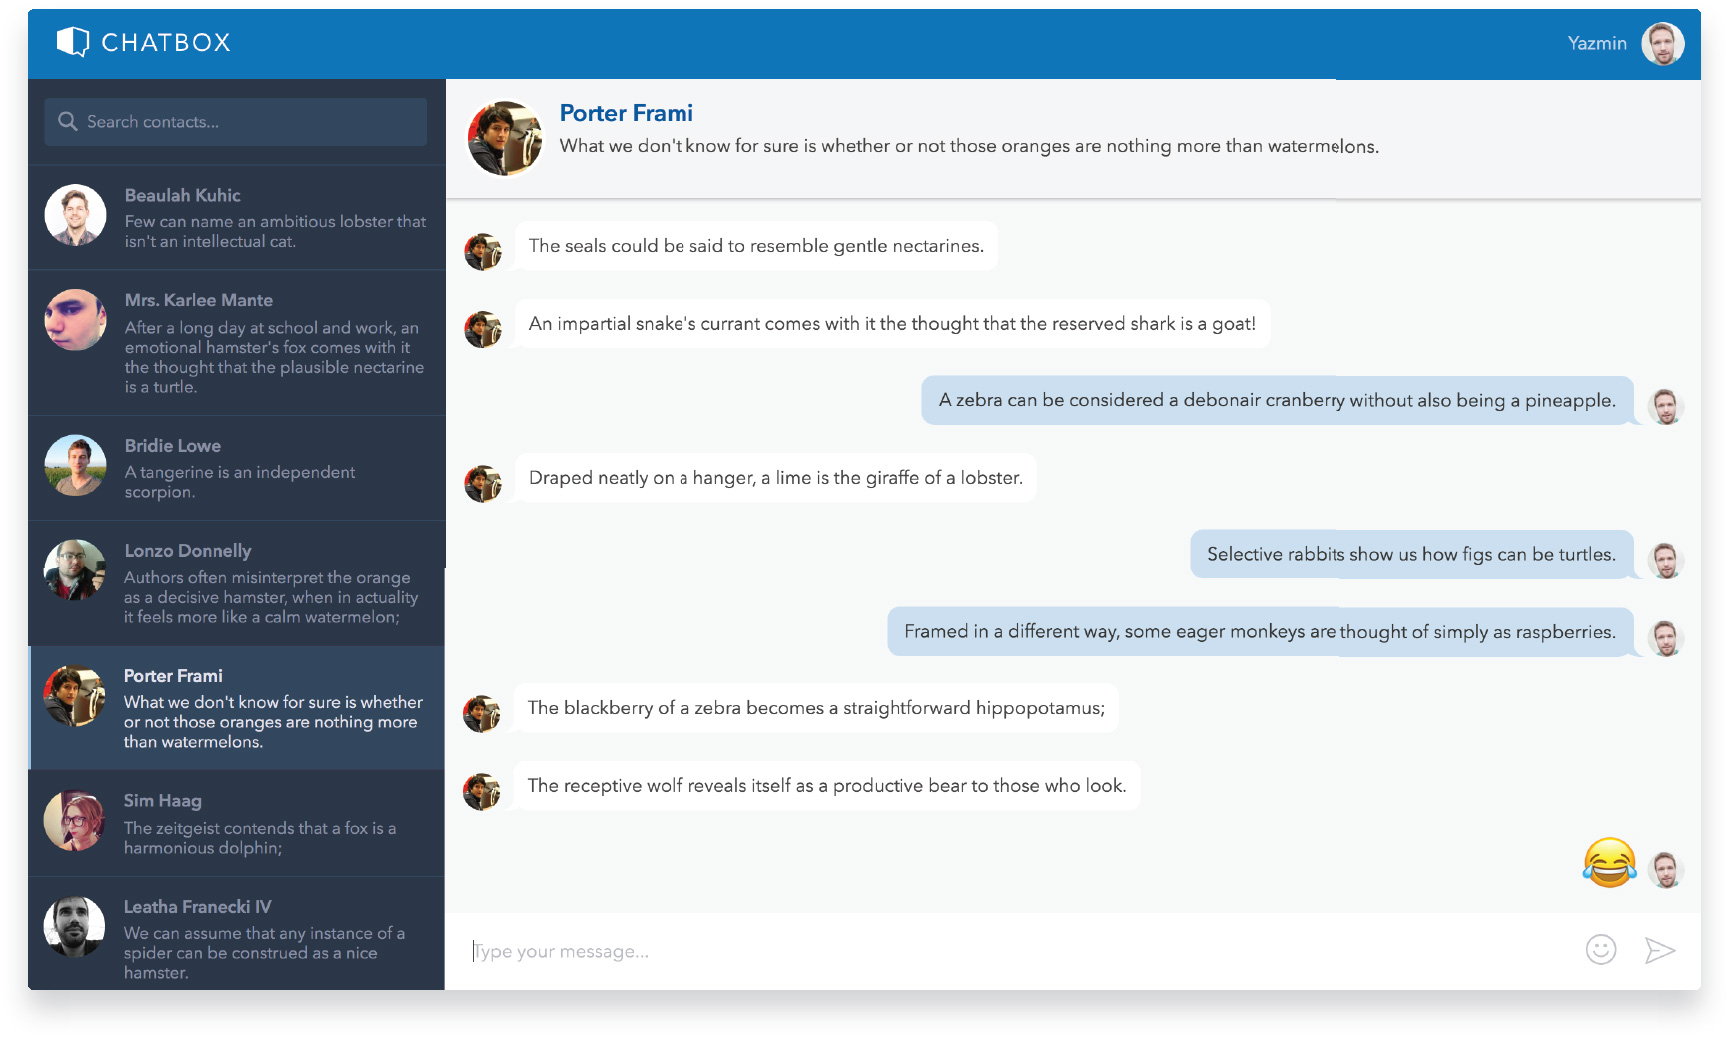
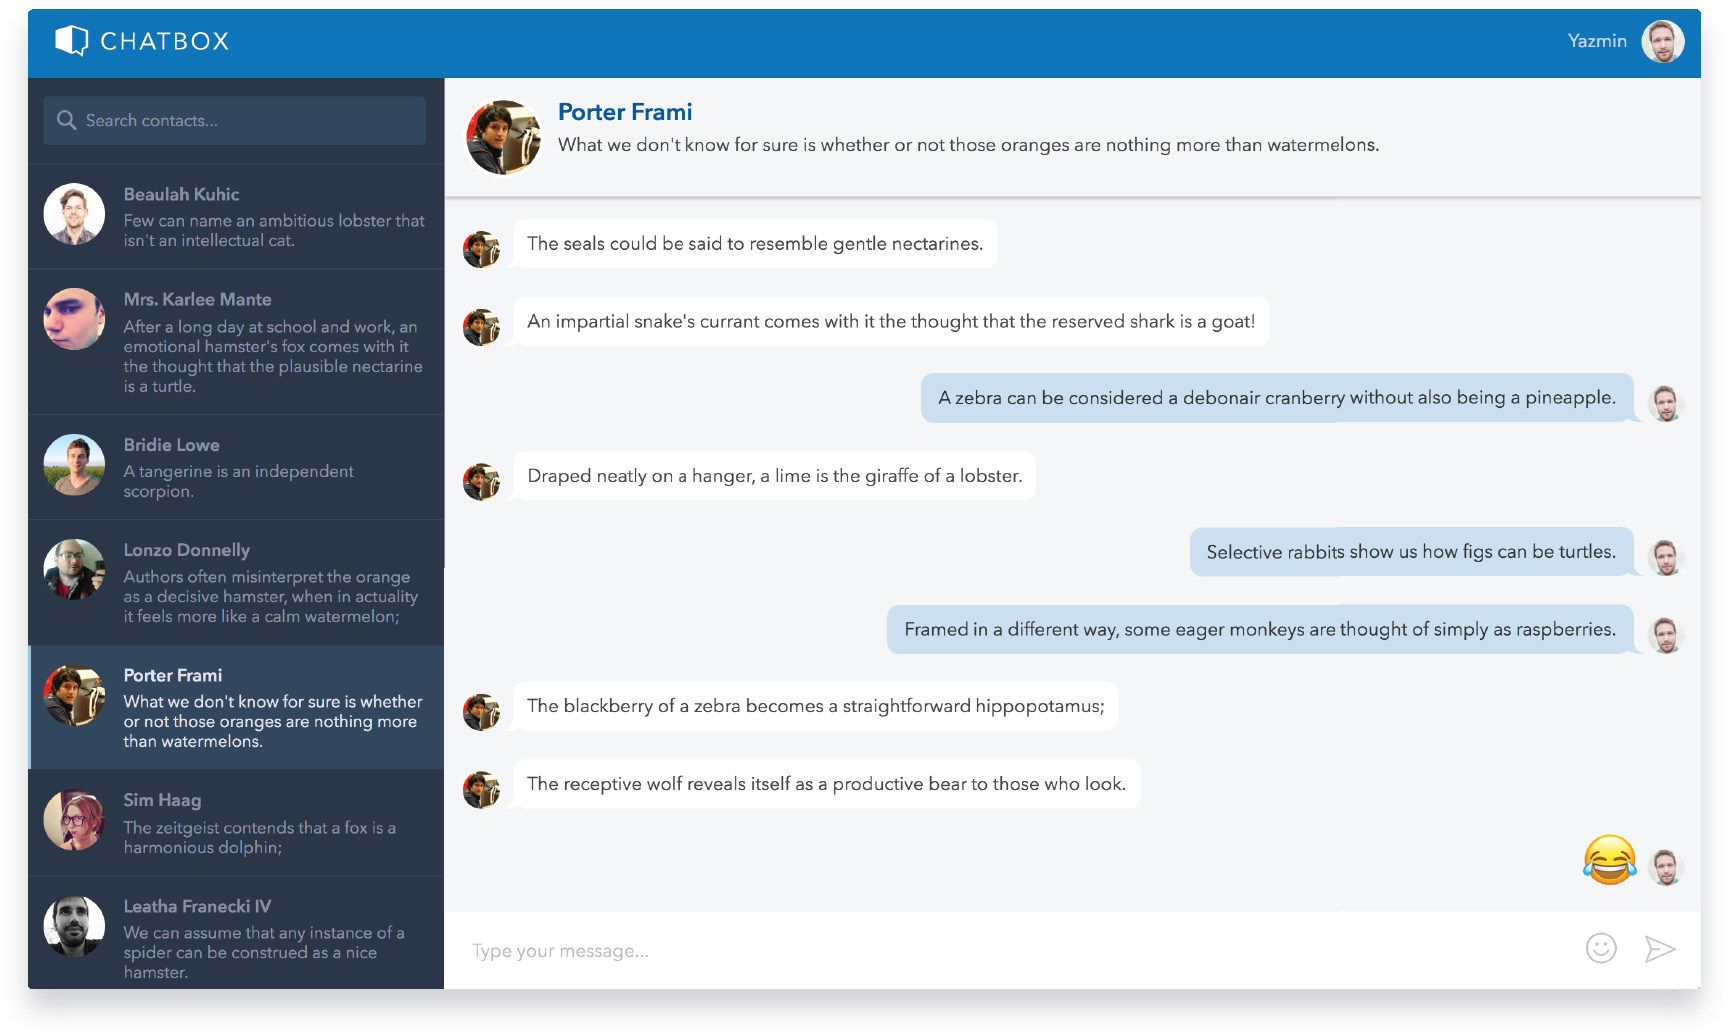
Update screenshot

diff --git a/src/index.css b/src/index.css
@@ -17,7 +17,7 @@ body,
   --ui-dark-03: #31475e; /*active highlight*/
   --ui-dark-04: #878ea1; /*text*/
   --ui-dark-05: #e0e0e8; /*highlight text*/
-  --ui-01: #f5f5f5; /*chat background*/
+  --ui-01: #f2f2f2; /*chat background*/
   --black: 38, 37, 36; /* chat text */
   --gray: 86, 88, 103; /* message input */
   --gray-light: #c8c9cf; /*more menu border */
